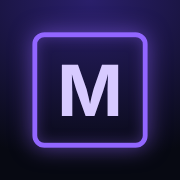
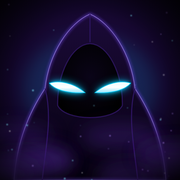
Nuova icona app (monarca incappucciato)
Claude-Session: https://claude.ai/code/session_01AWhoNfAgD8ZfaQoYKv7gnz

diff --git a/sw.js b/sw.js
@@ -1,4 +1,4 @@
-var C='monarca-v26',F=['./','index.html','manifest.webmanifest','icon-192.png','icon-512.png','icon-180.png'];
+var C='monarca-v27',F=['./','index.html','manifest.webmanifest','icon-192.png','icon-512.png','icon-180.png'];
 self.addEventListener('install',function(e){e.waitUntil(caches.open(C).then(function(c){return c.addAll(F.map(function(u){return new Request(u,{cache:'reload'})}))}));self.skipWaiting()});
 self.addEventListener('activate',function(e){e.waitUntil(caches.keys().then(function(k){return Promise.all(k.filter(function(x){return x!==C}).map(function(x){return caches.delete(x)}))}));self.clients.claim()});
 self.addEventListener('fetch',function(e){
